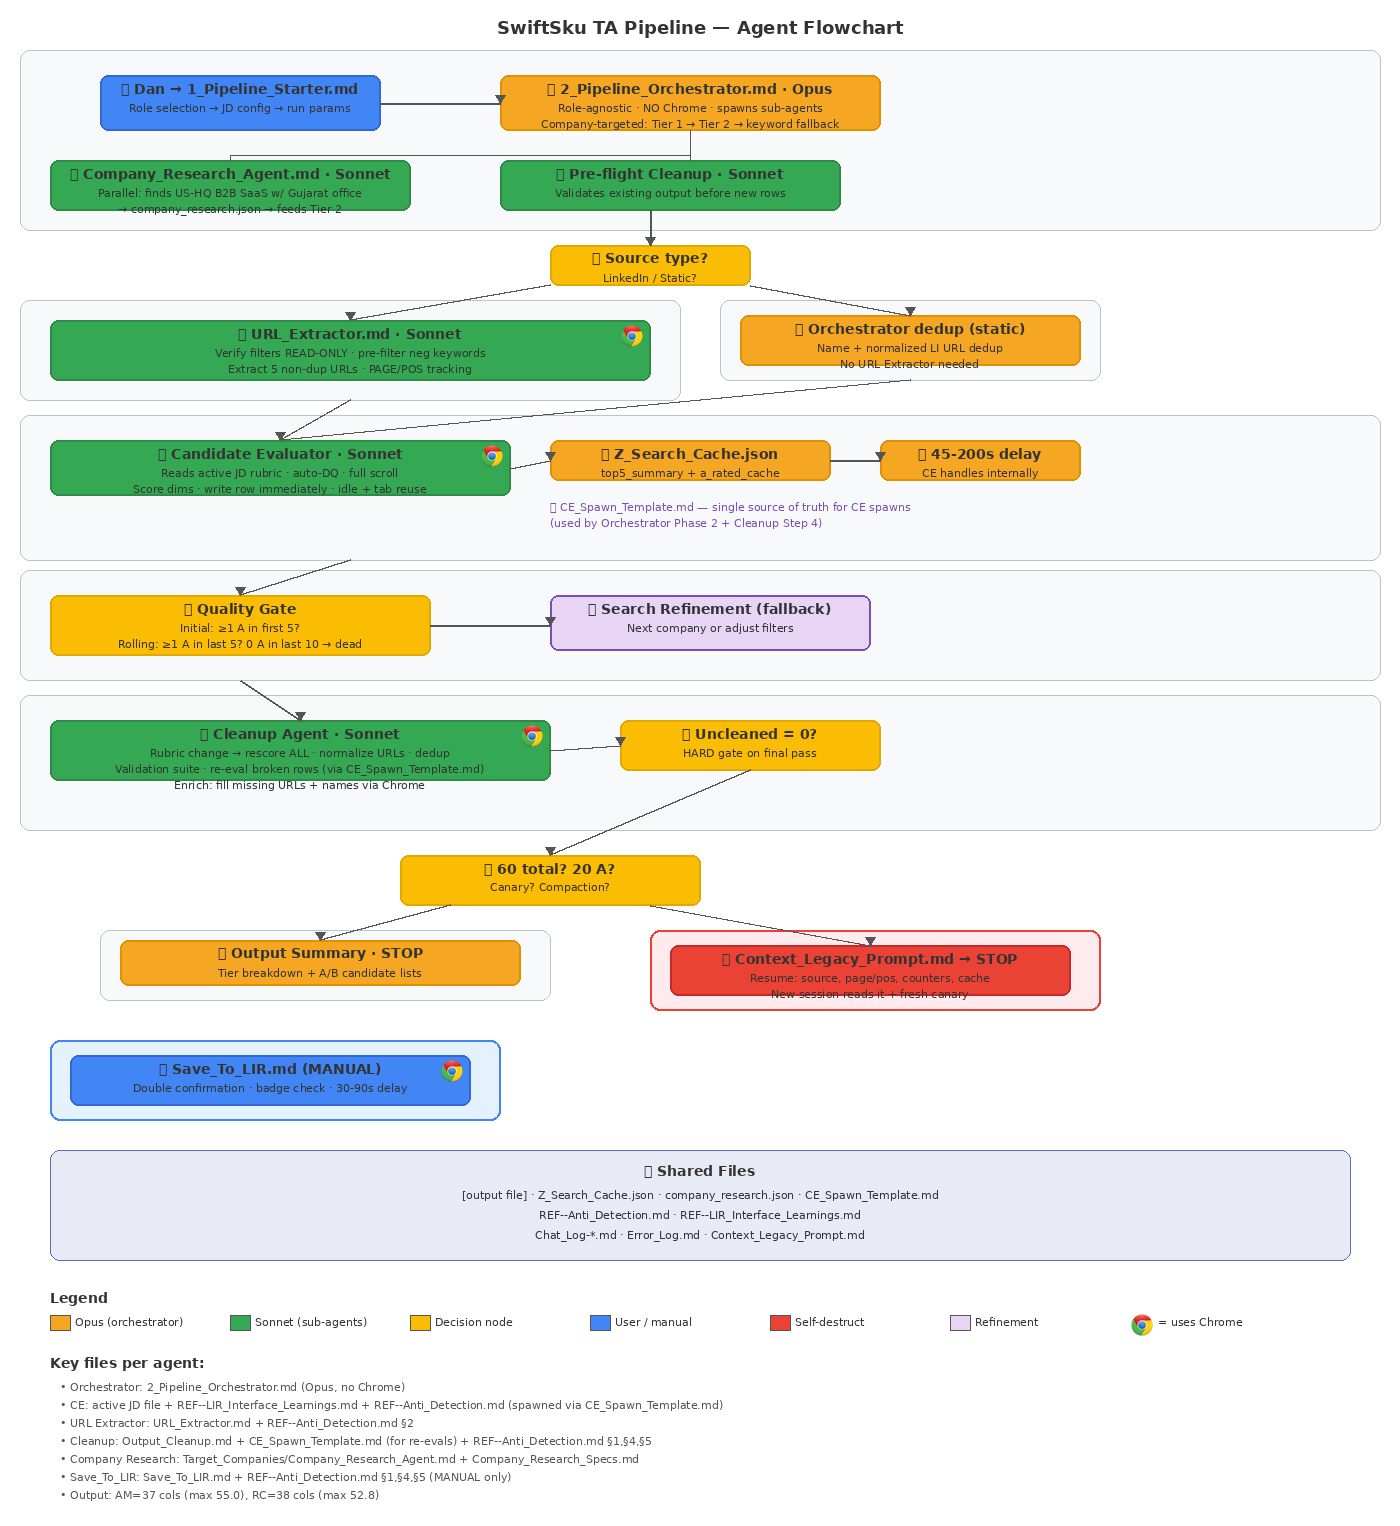
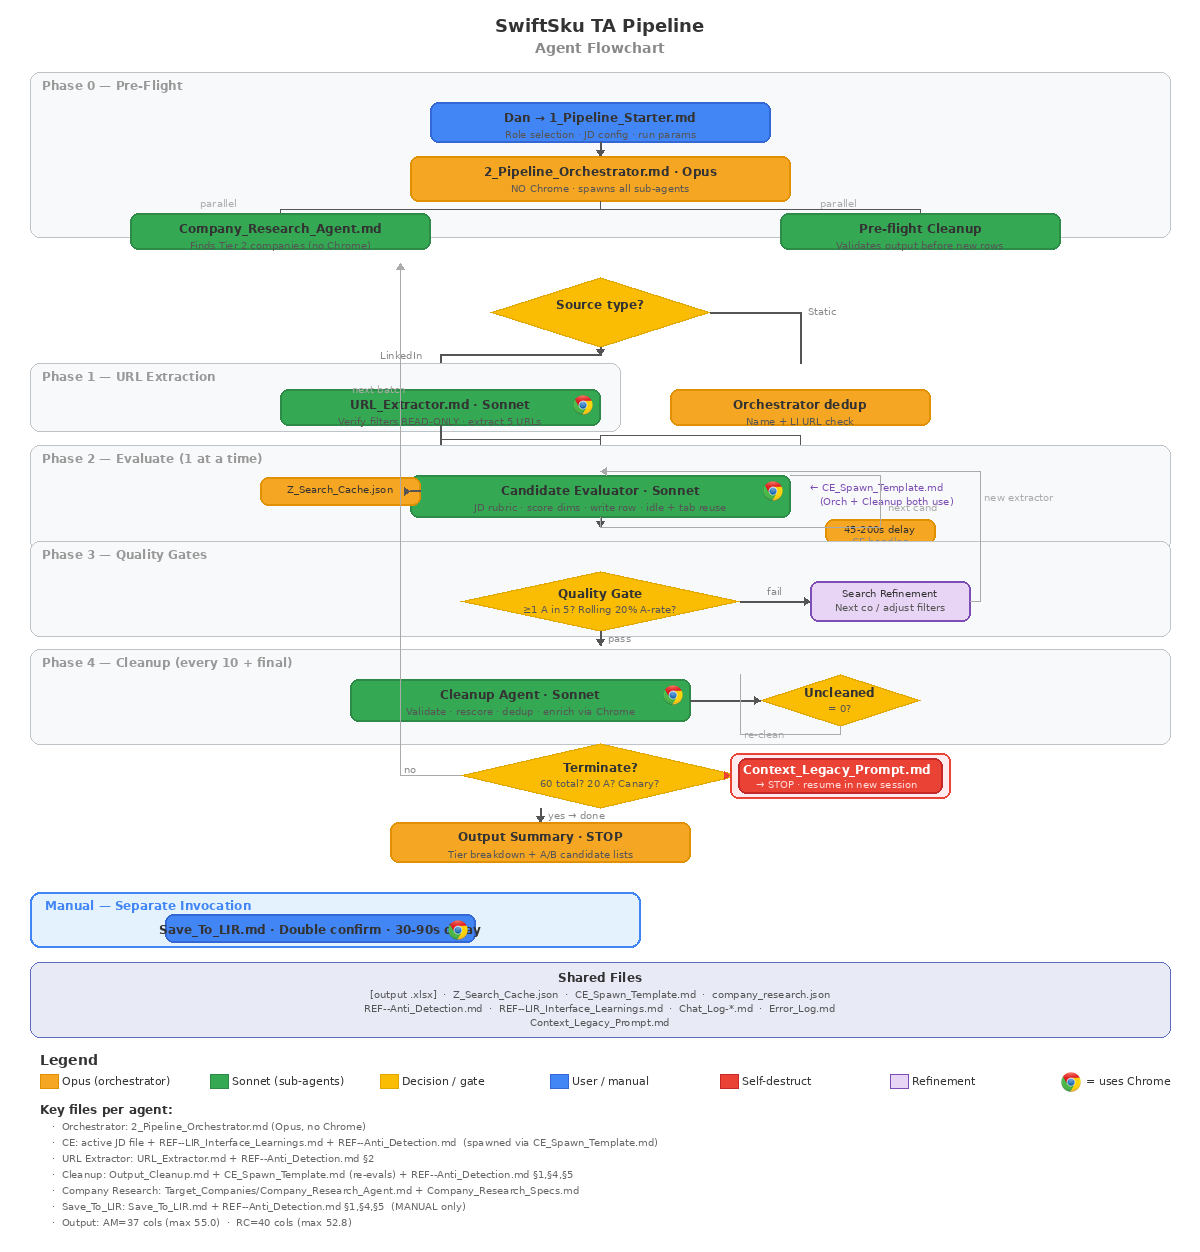
Added time stamp to recruiting job output.

diff --git a/JD--Recruiting_Coord.md b/JD--Recruiting_Coord.md
@@ -241,6 +241,8 @@ Append one row to the output xlsx file specified in the JD config (`output_file`
 
 ⛔ **Header row formatting:** Row 1 height must be exactly **30**. Column widths must be auto-fit so all header text is visible without truncation. Use bold, centered, wrapped text for all header cells. When creating or modifying the xlsx, calculate width as `len(header) * 1.15 + 2` (minimum 10).
 
+**Timestamp rule:** The `Date Added` column must be the **exact current time at the moment the row is written**, in **US Eastern time (America/New_York)**. Do not estimate, backdate, or space timestamps apart. Run `TZ='America/New_York' date '+%Y-%m-%d %H:%M:%S'` (or equivalent) to get the real time right before writing the row. Format: `YYYY-MM-DD HH:MM:SS` Eastern.
+
 ⛔ **MANDATORY: Use Python's `openpyxl` module for ALL writes to the output xlsx file.** Do NOT write rows manually with string concatenation, f-strings, or echo commands. Example:
 
 ```python
@@ -248,13 +250,13 @@ from openpyxl import load_workbook
 wb = load_workbook(output_path)
 ws = wb.active
 next_row = ws.max_row + 1
-values = [candidate, greenhouse_url, public_li_url, title, company, ..., '']  # last column is Cleaned? — always write as empty string
+values = [candidate, greenhouse_url, public_li_url, lir_url, date_added, title, company, ..., '']  # last column is Cleaned? — always write as empty string
 for col_idx, val in enumerate(values, 1):
     ws.cell(row=next_row, column=col_idx, value=val)
 wb.save(output_path)
 ```
 
-**Column order (exactly 38 columns — Cleaned? is #38):**
+**Column order (exactly 40 columns — Cleaned? is #40):**
 
 ⛔ **Each dimension gets TWO columns: a numeric score AND a separate text note. 7 scored dims (14 cols) + 2 bonus dims (4 cols) = 18 dimension columns total.**
 
@@ -262,41 +264,43 @@ wb.save(output_path)
  1. Candidate
  2. Greenhouse URL
  3. Public LI URL
- 4. Current Title
- 5. Company
- 6. Location
- 7. Gujarat/Gujarati (EXPLICIT - Y/N)
- 8. Auto_DQ (Y/N)
- 9. DQ_Reason
-10. Dim1_Title_Score (0-3)              ← NUMBER ONLY  [CRITICAL — 5×]
-11. Dim1_Note                           ← TEXT ONLY
-12. Dim2_HighVolume_Score (0-3)         ← NUMBER ONLY  [CORE — 4×]
-13. Dim2_Note                           ← TEXT ONLY
-14. Dim3_SalesHiring_Score (0-3)        ← NUMBER ONLY  [CORE — 3×]
-15. Dim3_Note                           ← TEXT ONLY
-16. Dim4_SaaS_Score (0-4)              ← NUMBER ONLY  [CORE — 3×]
-17. Dim4_Note                           ← TEXT ONLY
-18. Dim5_Education_Score (0-3)          ← NUMBER ONLY  [STANDARD — 0.7×]
-19. Dim5_Note                           ← TEXT ONLY
-20. Dim6_RecruitingOps_Score (0-3)      ← NUMBER ONLY  [STANDARD — 0.6×]
-21. Dim6_Note                           ← TEXT ONLY
-22. Dim7_Tenure_Score (0-3)             ← NUMBER ONLY  [MINOR — 0.3×]
-23. Dim7_Note                           ← TEXT ONLY
-24. Bonus1_US_Co_Score (0-3)        ← NUMBER ONLY  [BONUS — ×0.8 additive]
-25. Bonus1_Note                           ← TEXT ONLY
-26. Bonus2_Startup_Score (0-4)      ← NUMBER ONLY  [BONUS — ×2 additive]
-27. Bonus2_Note                           ← TEXT ONLY
-28. Base_Score
-29. US_Co_Bonus (Bonus1 × 0.8)
-30. Startup_Bonus (Bonus2 × 2)
-31. Raw_Score (Base + Bonuses)
-32. Max_Score (always 52.8)
-33. Percentage (with % suffix — can exceed 100%)
-34. Tier (A/B/C/D/F)
-35. Verdict (Strong Yes/Yes/Maybe/No/Hard No)
-36. Whys (bullet list with \n between each — leave empty if Auto_DQ)
-37. Concern
-38. Cleaned? (always write as empty string — cleanup agent fills this)
+ 4. LIR URL
+ 5. Date Added (YYYY-MM-DD HH:MM:SS ET)
+ 6. Current Title
+ 7. Company
+ 8. Location
+ 9. Gujarat/Gujarati (EXPLICIT - Y/N)
+10. Auto_DQ (Y/N)
+11. DQ_Reason
+12. Dim1_Title_Score (0-3)              ← NUMBER ONLY  [CRITICAL — 5×]
+13. Dim1_Note                           ← TEXT ONLY
+14. Dim2_HighVolume_Score (0-3)         ← NUMBER ONLY  [CORE — 4×]
+15. Dim2_Note                           ← TEXT ONLY
+16. Dim3_SalesHiring_Score (0-3)        ← NUMBER ONLY  [CORE — 3×]
+17. Dim3_Note                           ← TEXT ONLY
+18. Dim4_SaaS_Score (0-4)              ← NUMBER ONLY  [CORE — 3×]
+19. Dim4_Note                           ← TEXT ONLY
+20. Dim5_Education_Score (0-3)          ← NUMBER ONLY  [STANDARD — 0.7×]
+21. Dim5_Note                           ← TEXT ONLY
+22. Dim6_RecruitingOps_Score (0-3)      ← NUMBER ONLY  [STANDARD — 0.6×]
+23. Dim6_Note                           ← TEXT ONLY
+24. Dim7_Tenure_Score (0-3)             ← NUMBER ONLY  [MINOR — 0.3×]
+25. Dim7_Note                           ← TEXT ONLY
+26. Bonus1_US_Co_Score (0-3)            ← NUMBER ONLY  [BONUS — ×0.8 additive]
+27. Bonus1_Note                         ← TEXT ONLY
+28. Bonus2_Startup_Score (0-4)          ← NUMBER ONLY  [BONUS — ×2 additive]
+29. Bonus2_Note                         ← TEXT ONLY
+30. Base_Score
+31. US_Co_Bonus (Bonus1 × 0.8)
+32. Startup_Bonus (Bonus2 × 2)
+33. Raw_Score (Base + Bonuses)
+34. Max_Score (always 52.8)
+35. Percentage (with % suffix — can exceed 100%)
+36. Tier (A/B/C/D/F)
+37. Verdict (Strong Yes/Yes/Maybe/No/Hard No)
+38. Whys (bullet list with \n between each — leave empty if Auto_DQ)
+39. Concern
+40. Cleaned? (always write as empty string — cleanup agent fills this)
 ```
 
 **Example row (score columns are JUST numbers, notes are JUST text):**
@@ -305,41 +309,43 @@ writer.writerow([
     "Priya Patel",                          # 1. Candidate
     "",                                     # 2. Greenhouse URL (empty — filled manually or via Greenhouse integration)
     "https://linkedin.com/in/priyapatel",   # 3. Public LI URL
-    "Recruiting Coordinator",               # 4. Title
-    "BrowserStack",                         # 5. Company
-    "Ahmedabad, Gujarat, India",            # 6. Location
-    "Y",                                    # 7. Gujarat/Gujarati
-    "No",                                   # 8. Auto_DQ
-    "",                                     # 9. DQ_Reason
-    "3",                                    # 10. Dim1 Title [CRITICAL 5×]
-    "Recruiting Coordinator title at SaaS", # 11. Dim1 NOTE
-    "2",                                    # 12. Dim2 HighVolume [CORE 4×]
-    "Multiple reqs, busy hiring env",       # 13. Dim2 NOTE
-    "2",                                    # 14. Dim3 SalesHiring [CORE 3×]
-    "Recruited for Sales-adjacent roles",   # 15. Dim3 NOTE
-    "3",                                    # 16. Dim4 SaaS [CORE 3×]
-    "BrowserStack — non-US SaaS validated", # 17. Dim4 NOTE
-    "1",                                    # 18. Dim5 Edu [STD 0.7×]
-    "Bachelor's in HR",                     # 19. Dim5 NOTE
-    "3",                                    # 20. Dim6 RecruitingOps [STD 0.6×]
-    "Greenhouse + built interview workflows",# 21. Dim6 NOTE
-    "2",                                    # 22. Dim7 Tenure [MINOR 0.3×]
-    "2.5 yrs at BrowserStack",             # 23. Dim7 NOTE
-    "2",                                    # 24. Bonus1 US_Co BONUS [×0.8]
-    "India co, US client base",             # 25. Bonus1 NOTE
-    "3",                                    # 26. Bonus2 Startup BONUS [×2]
-    "BrowserStack was VC-backed pre-IPO",   # 27. Bonus2 NOTE
-    "38.1",                                 # 28. Base_Score
-    "1.6",                                  # 29. US_Co_Bonus (Bonus1 × 0.8)
-    "6.0",                                  # 30. Startup_Bonus (Bonus2 × 2)
-    "45.7",                                 # 31. Raw_Score
-    "52.8",                                 # 32. Max_Score
-    "86.6%",                                # 33. Percentage
-    "A",                                    # 34. Tier
-    "Strong Yes",                           # 35. Verdict
-    "• SaaS recruiting coord at BrowserStack\n• Ahmedabad-based, Gujarati speaker\n• Greenhouse experience — zero ramp-up",  # 36. Whys
-    "No US HQ company experience",          # 37. Concern
-    "",                                     # 38. Cleaned? (always empty)
+    "https://linkedin.com/talent/...",      # 4. LIR URL
+    "2026-03-25 10:30:00",                  # 5. Date Added
+    "Recruiting Coordinator",               # 6. Title
+    "BrowserStack",                         # 7. Company
+    "Ahmedabad, Gujarat, India",            # 8. Location
+    "Y",                                    # 9. Gujarat/Gujarati
+    "No",                                   # 10. Auto_DQ
+    "",                                     # 11. DQ_Reason
+    "3",                                    # 12. Dim1 Title [CRITICAL 5×]
+    "Recruiting Coordinator title at SaaS", # 13. Dim1 NOTE
+    "2",                                    # 14. Dim2 HighVolume [CORE 4×]
+    "Multiple reqs, busy hiring env",       # 15. Dim2 NOTE
+    "2",                                    # 16. Dim3 SalesHiring [CORE 3×]
+    "Recruited for Sales-adjacent roles",   # 17. Dim3 NOTE
+    "3",                                    # 18. Dim4 SaaS [CORE 3×]
+    "BrowserStack — non-US SaaS validated", # 19. Dim4 NOTE
+    "1",                                    # 20. Dim5 Edu [STD 0.7×]
+    "Bachelor's in HR",                     # 21. Dim5 NOTE
+    "3",                                    # 22. Dim6 RecruitingOps [STD 0.6×]
+    "Greenhouse + built interview workflows",# 23. Dim6 NOTE
+    "2",                                    # 24. Dim7 Tenure [MINOR 0.3×]
+    "2.5 yrs at BrowserStack",             # 25. Dim7 NOTE
+    "2",                                    # 26. Bonus1 US_Co BONUS [×0.8]
+    "India co, US client base",             # 27. Bonus1 NOTE
+    "3",                                    # 28. Bonus2 Startup BONUS [×2]
+    "BrowserStack was VC-backed pre-IPO",   # 29. Bonus2 NOTE
+    "38.1",                                 # 30. Base_Score
+    "1.6",                                  # 31. US_Co_Bonus (Bonus1 × 0.8)
+    "6.0",                                  # 32. Startup_Bonus (Bonus2 × 2)
+    "45.7",                                 # 33. Raw_Score
+    "52.8",                                 # 34. Max_Score
+    "86.6%",                                # 35. Percentage
+    "A",                                    # 36. Tier
+    "Strong Yes",                           # 37. Verdict
+    "• SaaS recruiting coord at BrowserStack\n• Ahmedabad-based, Gujarati speaker\n• Greenhouse experience — zero ramp-up",  # 38. Whys
+    "No US HQ company experience",          # 39. Concern
+    "",                                     # 40. Cleaned? (always empty)
 ])
 ```
 

diff --git a/Output_Cleanup.md b/Output_Cleanup.md
@@ -200,7 +200,7 @@ Every unchecked row must pass ALL of the following tests. If any test fails, the
 
 | # | Test | Pass Criteria | What Failure Means |
 |---|---|---|---|
-| S1 | Column count | `len(row) == expected_col_count` (AM=37, RC=38 — read from JD file) | Unquoted commas split a field, or columns are missing |
+| S1 | Column count | `len(row) == expected_col_count` (AM=37, RC=40 — read from JD file) | Unquoted commas split a field, or columns are missing |
 | S2 | No completely empty row | At least columns 1-4 are non-empty | Row was written as blank/partial |
 | S3 | No header duplication | Row[0] ≠ `"Candidate"` | Header was accidentally re-written as data |
 
@@ -214,13 +214,13 @@ Every unchecked row must pass ALL of the following tests. If any test fails, the
 | I2b | Public LI URL completeness | If Column 4 is a LinkedIn Recruiter URL (`/talent/`), then Column 3 MUST be non-empty | Row has an LIR URL that could yield a public URL but enrichment hasn't been done yet — do NOT mark as `TRUE` until Step 6 enrichment has been attempted for this row |
 | I2c | Public LI URL slug-name match | If Column 3 is non-empty, extract the slug (the part after `/in/`), split it on `-`, remove any trailing alphanumeric hash segments (segments that are all digits or >6 chars of mixed alphanumeric), then check if at least ONE word from the candidate's name (Column 1, case-insensitive) appears in the slug parts. E.g., "Priya Patel" + slug `priya-patel-a1b2c3` → match ("priya" found). "Faizan Shaikh" + slug `faizan-shaikh` → match. But "Faizan Shaikh" + slug `john-doe-developer` → FAIL. | **The public URL likely belongs to a different person with the same name.** This is a critical data integrity issue — the CE may have guessed/constructed the URL instead of extracting it from the LIR profile's "Public profile" link. Clear Column 3 (set to empty) and leave `Cleaned?` empty so enrichment is re-attempted in Step 6. Log: `URL_SLUG_MISMATCH: {Name} | {URL} — slug does not match candidate name, cleared.` |
 | I3 | LIR URL format | Column 4 starts with `https://www.linkedin.com/` OR is a valid non-LinkedIn URL starting with `http` | Internal URL is garbled or shifted |
-| I4 | Source exists | Column 5 is non-empty | Source field is blank |
+| I4 | Source exists | Column 5 is non-empty (AM only; RC has no Source column — skip this test) | Source field is blank |
 
 ### Timestamp Tests
 
 | # | Test | Pass Criteria | What Failure Means |
 |---|---|---|---|
-| T1 | Date format | Date Added column matches regex `^\d{4}-\d{2}-\d{2} \d{2}:\d{2}:\d{2}$` (AM: Column 6; RC: no Date Added column — skip this test) | Timestamp is garbled or in wrong format |
+| T1 | Date format | Date Added column matches regex `^\d{4}-\d{2}-\d{2} \d{2}:\d{2}:\d{2}$` (AM: Column 6; RC: Column 5) | Timestamp is garbled or in wrong format |
 | T2 | Date is plausible | Year is 2025 or 2026, month 01-12, day 01-31 | Timestamp has impossible values |
 
 ### Scoring Tests — Dynamic Weight Recalculation
@@ -324,6 +324,5 @@ In ALL cases, the agent must loop until every non-null row has `Cleaned?` = `TRU
 
 When column counts, max scores, or dimension weights change in a JD file, the following must also be updated:
 
-1. **`render_mermaid.py`** — legend section hardcodes column counts and max scores per role (search for the `<li><code>JD--` lines). Update to match the new values.
-2. **This file (`Output_Cleanup.md`)** — the "Expected column count" instruction above must remain dynamic (read from JD). Do NOT re-introduce hardcoded numbers.
-3. **`Z__In_Use_Ref_Files/_Agent_Flowchart.mermaid`** — if agent names, file names, or pipeline flow changes, update the mermaid source and regenerate the PNG.
+1. **This file (`Output_Cleanup.md`)** — the "Expected column count" instruction above must remain dynamic (read from JD). Do NOT re-introduce hardcoded numbers.
+2. **`_Agent_Flowchart.png`** — if agent names, file names, or pipeline flow changes, regenerate the PNG using `Z__In_Use_Ref_Files/_Flowchart_Preferences.md`.

diff --git a/Z__In_Use_Ref_Files/_Flowchart_Preferences.md b/Z__In_Use_Ref_Files/_Flowchart_Preferences.md
@@ -4,12 +4,12 @@
 
 - **Engine:** PIL (Pillow) — no external network dependencies (mermaid-py, npm, playwright all fail in sandbox)
 - **Output:** `_Agent_Flowchart.png` in the TA-ACM root
-- **Source:** `Z__In_Use_Ref_Files/_Agent_Flowchart.mermaid` is the canonical mermaid source (keep in sync with PNG even though PIL renders independently)
+- **Source:** This preferences file + the PIL script are the source of truth. No mermaid file — PIL renders everything directly.
 
 ## Icons
 
 - **Chrome icon:** `Z__In_Use_Ref_Files/Chrome_Icon.png` — paste on every agent box that uses Chrome (URL Extractor, Candidate Evaluator, Cleanup Agent enrichment, Save_To_LIR)
-- **Chrome icon size:** 24×24px, positioned top-right corner of the box
+- **Chrome icon size:** 22×22px, positioned top-right corner of the box
 - **Chrome in legend:** Include Chrome icon with "= uses Chrome" label
 
 ## Color Scheme
@@ -36,12 +36,22 @@
 
 ## Layout
 
-- **Canvas width:** 1400px
-- **Box corners:** rounded_rectangle, radius=8
+- **Canvas width:** 1200px
+- **Layout pattern:** Center spine — main flow runs straight down the vertical center
+- **Side branches:** Parallel/optional agents branch left or right off the center spine
+- **Loop-back arrows:** Curved arrows returning to an earlier node (e.g., "next batch" loops back to URL Extractor, refinement loops back to CE)
+
+### Node shapes
+- **Agent boxes:** rounded_rectangle, radius=8, width ~280-320px
+- **Decision nodes:** Diamond (rotated square), ~100×100px, with question text centered inside (e.g., "Source type?", "Quality Gate", "Uncleaned=0?", "Terminate?")
 - **Phase containers:** rounded_rectangle, radius=10
 - **Self-destruct container:** `fill:#FFEBEE`, `stroke:#EA4335`, width=2
 - **Manual container:** `fill:#E3F2FD`, `stroke:#4285F4`, width=2, dashed
-- **Arrows:** `#555`, width=2, with filled triangle arrowheads
+
+### Arrows
+- **Color:** `#555`, width=2, with filled triangle arrowheads
+- **Decision labels:** "Yes"/"No" or "LIR"/"Public" labels on arrows exiting decision diamonds
+- **Loop-back arrows:** Same style, curved to avoid overlapping other nodes
 
 ## Content Rules
 
@@ -52,6 +62,22 @@
 - Include column counts and max scores per role in footer
 - Highlight `CE_Spawn_Template.md` callout near CE box in purple (`#7B4DB5`)
 - Auto-crop canvas height to content + 20px padding
+
+## Flow Structure (top-down)
+
+The pipeline flows top-to-bottom through these stages on the center spine:
+
+1. **Pipeline Starter** (user/manual) → triggers Orchestrator
+2. **Pipeline Orchestrator** (Opus, NO Chrome) — center spine anchor
+3. **Decision: Source type?** — diamond: LIR branch left, Public LI branch right
+4. **URL Extractor** (Sonnet, Chrome) — branches back to center
+5. **Candidate Evaluator** (Sonnet, Chrome) — spawned per candidate; CE Spawn Template callout in purple nearby
+6. **Decision: Quality Gate** — diamond: pass/fail
+7. **Output Cleanup Agent** (Sonnet, Chrome for re-evals) — runs on output file
+8. **Decision: Uncleaned=0?** — diamond: loop back if no, continue if yes
+9. **Decision: Terminate?** — diamond: "next batch" loops back to URL Extractor; "yes" branches to Self-Destruct
+10. **Self-Destruct** (red container) — branches right off terminate diamond
+11. **Save_To_LIR** (manual, Chrome) — separate branch, user-invoked only
 
 ## When to Regenerate
 

diff --git a/Save_To_LIR.md b/Save_To_LIR.md
@@ -152,7 +152,7 @@ For each candidate in the save list:
 
 After all candidates are processed, update the output xlsx. Add a note to the candidate's `Dim8_Note` column (or whichever appropriate text field) appending: `[Saved to LIR project: {project_name} on {date}]`
 
-⚠ Do NOT add new columns to the output file — the column structure is locked (AM=37, RC=38).
+⚠ Do NOT add new columns to the output file — the column structure is locked (AM=37, RC=40).
 
 ---
 
